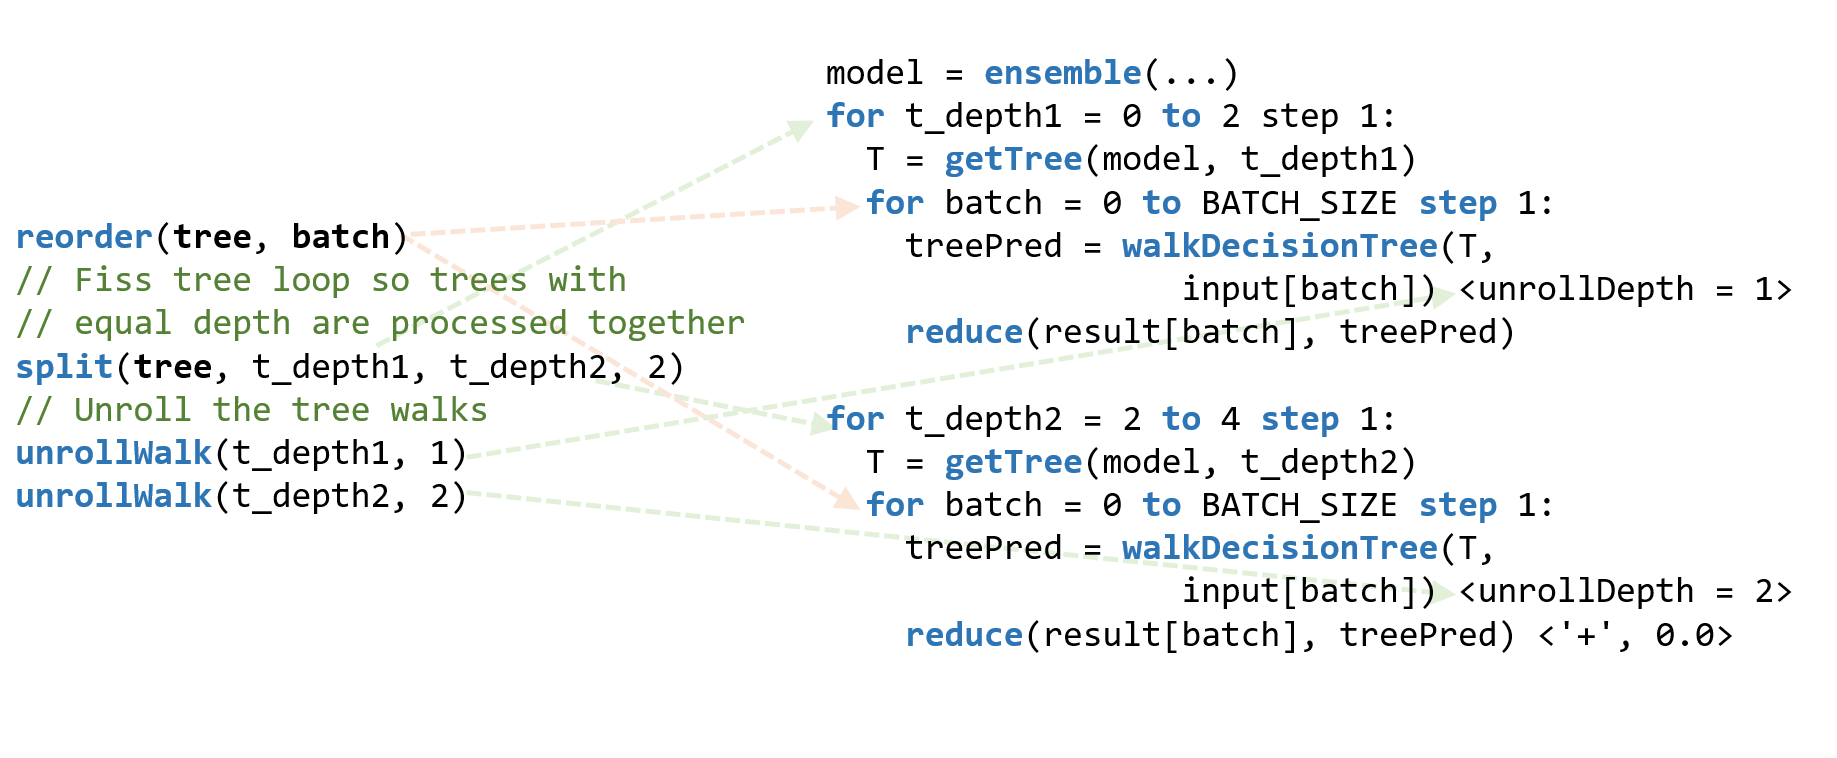
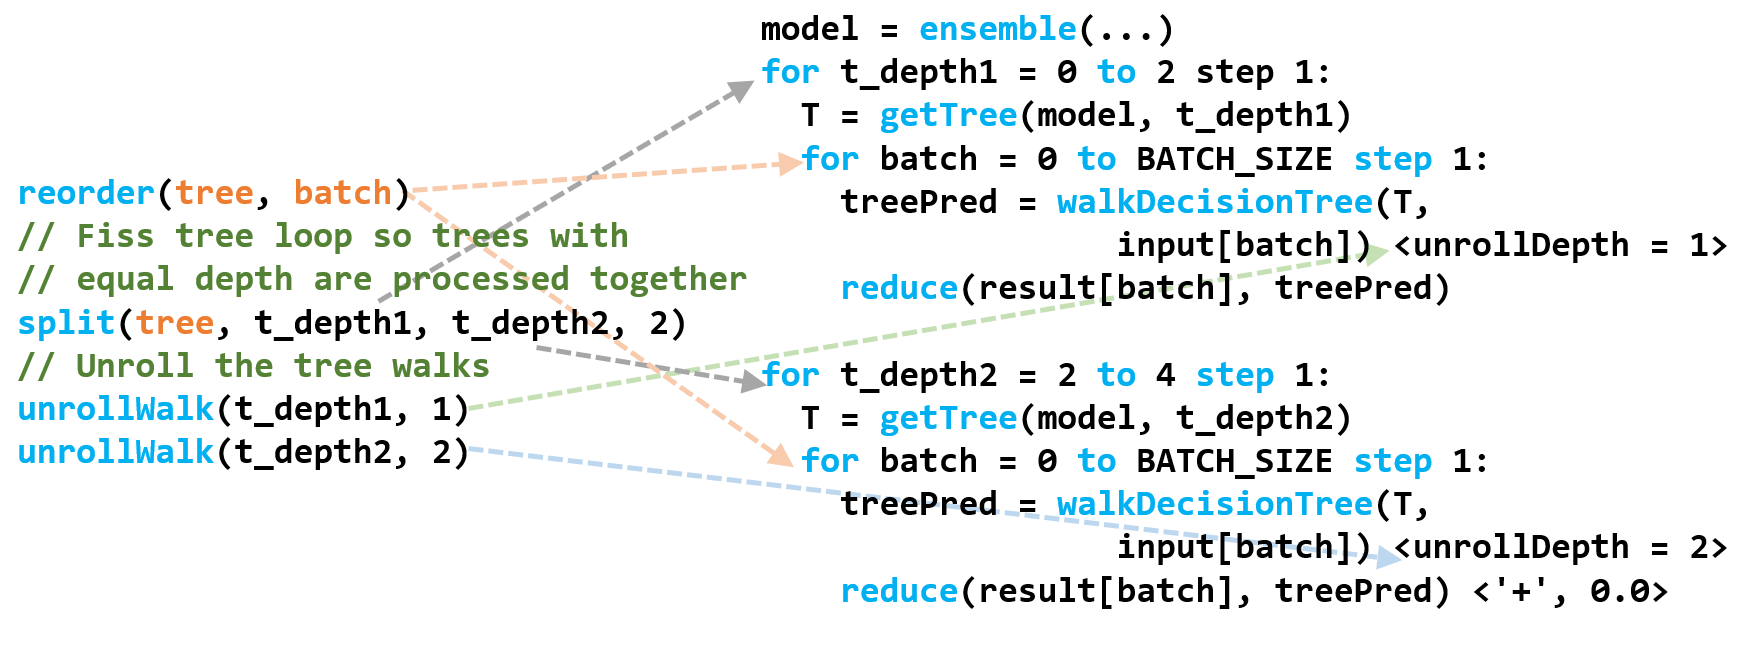
Edit motivation figure

Changed region(s): [[0.0, 0.0305, 0.9824, 0.9451]]

diff --git a/docs/SOSP 2024/motivation.tex b/docs/SOSP 2024/motivation.tex
@@ -34,19 +34,20 @@ the reuse of trees in the L1 cache. However, it doesn't exploit
 any parallelism. 
 
 \begin{figure*}[]
-  \begin{subfigure}[t]{.495\linewidth}
+  \begin{subfigure}[t]{.5\linewidth}
     \vspace{0pt}
     \centering
     \includegraphics[width=\linewidth]{figures/MotivatingExample1.PNG}
     \caption{\label{fig:schedulea}}
   \end{subfigure}\hfill
-  \begin{subfigure}[t]{.495\linewidth}
+  \begin{subfigure}[t]{.5\linewidth}
     \vspace{0pt}
     \centering
     \includegraphics[width=\linewidth]{figures/MotivatingExample2.PNG}
     \caption{\label{fig:scheduleb}}
   \end{subfigure}
-  \caption{Some possible schedules to compile the motivating example and the generated \Treebeard{} IR.}
+  \caption{Some possible schedules to compile the motivating example and the generated \Treebeard{} IR.
+  The arrows connect entities in the schedule to related entities in the IR. }
   \label{Fig:Schedules}
 \end{figure*}
 
@@ -71,7 +72,7 @@ of branch divergence~\cite{FungMicro, MilindDivergence}.
 
 These \Treebeard{} schedules just use a combination of 4-8 constructs and already generate strategies 
 that are different from what library based systems like XGBoost, Tahoe and RAPIDs FIL use. 
-As one can imagine, several other schedules with different trade-offs can be generating using 
+As one can imagine, several other schedules with different trade-offs can be generated using 
 these constructs.
 
 \subsection{Performance of Different Schedules} 
